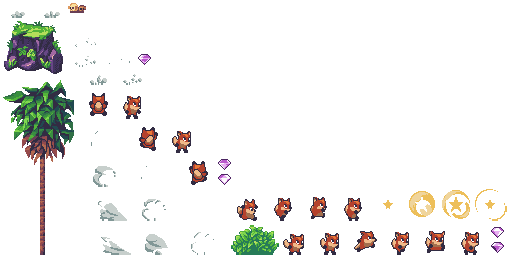
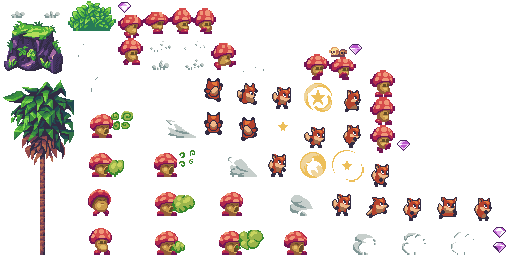
add mushroom enemy

diff --git a/core/src/main/kotlin/io/github/quillraven/foxventure/system/SpawnSystem.kt b/core/src/main/kotlin/io/github/quillraven/foxventure/system/SpawnSystem.kt
@@ -13,6 +13,8 @@ import io.github.quillraven.foxventure.Asset.Companion.get
 import io.github.quillraven.foxventure.AtlasAsset
 import io.github.quillraven.foxventure.GdxGame.Companion.toWorldUnits
 import io.github.quillraven.foxventure.ai.FleksStateMachine
+import io.github.quillraven.foxventure.ai.FsmState
+import io.github.quillraven.foxventure.ai.MushroomStateIdle
 import io.github.quillraven.foxventure.ai.PlayerStateIdle
 import io.github.quillraven.foxventure.component.Animation
 import io.github.quillraven.foxventure.component.AnimationType
@@ -71,8 +73,8 @@ class SpawnSystem(
 
             // graphic, animation
             val regions = objectsAtlas.findRegions(atlasKey)
-            it += Graphic(regions.first())
-            if (regions.size > 1) {
+            it += Graphic(regions.firstOrNull() ?: gdxError("No regions for atlas key $atlasKey"))
+            if (regions.size > 1 || atlasKey.endsWith("idle")) {
                 // multiple texture regions -> add Animation component
                 val objectKey = atlasKey.substringBeforeLast("/")
                 val gdxAnimations = animationCache.getOrPut(objectKey) {
@@ -129,12 +131,23 @@ class SpawnSystem(
                 it += Collision(Rect.ofRect((mapObject.tile.objects.single() as RectangleMapObject).rectangle))
             }
 
-            if ("player" == tiledType) {
-                it += listOf(EntityTag.ACTIVE, EntityTag.CAMERA_FOCUS)
-                it += Player()
-                it += Controller()
-                it += Fsm(FleksStateMachine(world, it, PlayerStateIdle))
+            when (tiledType) {
+                "player" -> {
+                    it += listOf(EntityTag.ACTIVE, EntityTag.CAMERA_FOCUS)
+                    it += Player()
+                    it += Controller()
+                    it += Fsm(FleksStateMachine(world, it, PlayerStateIdle))
+                }
+
+                "enemy" -> it += Fsm(FleksStateMachine(world, it, getEnemyState(atlasKey)))
             }
+        }
+    }
+
+    private fun getEnemyState(atlasKey: String): FsmState {
+        return when (val enemyType = atlasKey.substringAfter("characters/").substringBefore("/")) {
+            "mushroom" -> MushroomStateIdle
+            else -> gdxError("No enemy state for enemy $enemyType")
         }
     }
 

diff --git a/assets/maps/objects.tsx b/assets/maps/objects.tsx
@@ -1,5 +1,5 @@
 <?xml version="1.0" encoding="UTF-8"?>
-<tileset version="1.10" tiledversion="1.11.2" name="objects" tilewidth="33" tileheight="32" tilecount="2" columns="0">
+<tileset version="1.10" tiledversion="1.11.2" name="objects" tilewidth="33" tileheight="32" tilecount="3" columns="0">
  <grid orientation="orthogonal" width="1" height="1"/>
  <tile id="0" type="player">
   <properties>
@@ -17,6 +17,20 @@
   <image source="../graphics/sprites/sfx/gem/idle_0.png" width="15" height="13"/>
   <objectgroup draworder="index" id="2">
    <object id="1" x="2" y="2" width="11" height="9"/>
+  </objectgroup>
+ </tile>
+ <tile id="2" type="enemy">
+  <properties>
+   <property name="physics" type="class" propertytype="Physics">
+    <properties>
+     <property name="jump_impulse" type="float" value="0"/>
+     <property name="max_speed" type="float" value="1.5"/>
+    </properties>
+   </property>
+  </properties>
+  <image source="../graphics/sprites/characters/mushroom/idle_0.png" width="23" height="25"/>
+  <objectgroup draworder="index" id="2">
+   <object id="1" x="2" y="0" width="20" height="24"/>
   </objectgroup>
  </tile>
 </tileset>

diff --git a/core/src/main/kotlin/io/github/quillraven/foxventure/ai/mushroomState.kt b/core/src/main/kotlin/io/github/quillraven/foxventure/ai/mushroomState.kt
@@ -1,0 +1,16 @@
+package io.github.quillraven.foxventure.ai
+
+import com.github.quillraven.fleks.Entity
+import com.github.quillraven.fleks.World
+import io.github.quillraven.foxventure.component.Animation
+import io.github.quillraven.foxventure.component.AnimationType
+
+data object MushroomStateIdle : FsmState {
+    override fun World.onEnter(entity: Entity) {
+        entity[Animation].changeTo(AnimationType.IDLE)
+    }
+
+    override fun World.onUpdate(entity: Entity) {
+        // TODO
+    }
+}

diff --git a/core/src/main/kotlin/io/github/quillraven/foxventure/component/Animation.kt b/core/src/main/kotlin/io/github/quillraven/foxventure/component/Animation.kt
@@ -8,7 +8,7 @@ import ktx.app.gdxError
 typealias GdxAnimation = com.badlogic.gdx.graphics.g2d.Animation<TextureRegion>
 
 enum class AnimationType {
-    IDLE, RUN, JUMP, FALL, CLIMB;
+    IDLE, RUN, JUMP, FALL, CLIMB, ATTACK;
 
     val atlasKey: String = name.lowercase()
 
